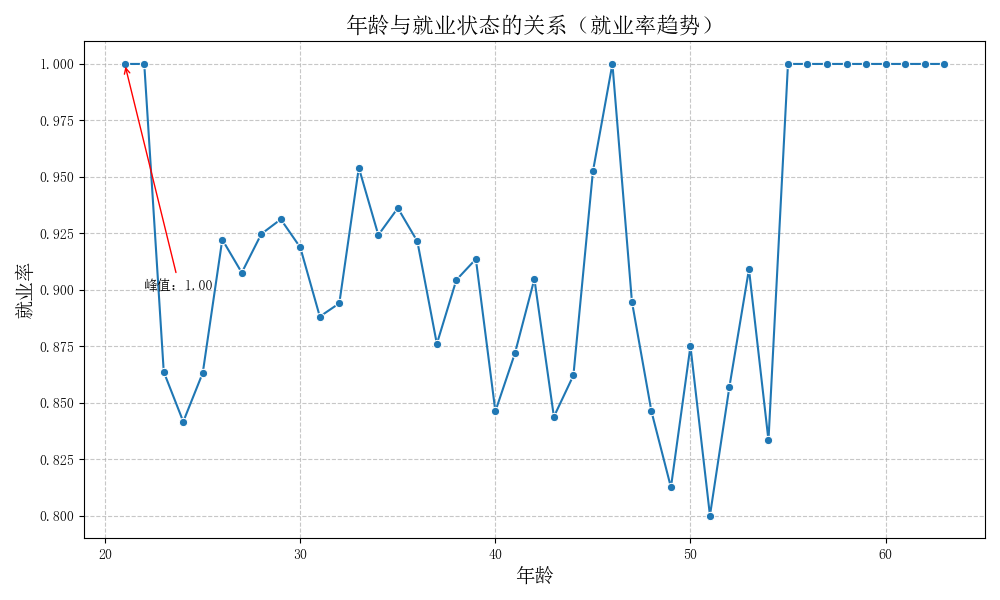
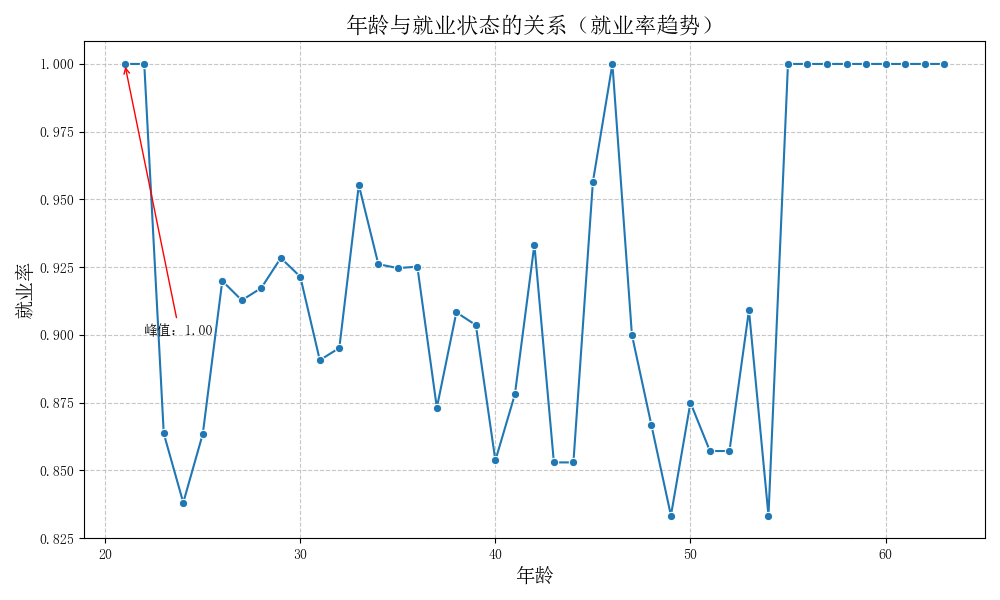
文件结构变动

diff --git a/code/visualization_analysis.py b/code/visualization_analysis.py
@@ -17,11 +17,11 @@ else:
     print("❌ 字体未找到，请检查路径！")
 
 # ===== 数据读取与处理 =====
-df = pd.read_csv('../processed_data/df_result.csv')
+df = pd.read_csv('../processed_data/non_standardized_data.csv')
 
 # 性别映射
 sex_mapping = {0: '未知', 1: '男', 2: '女', 9: '未说明'}
-df['sex_性别'] = df['sex_性别'].map(sex_mapping).fillna('未知')
+df['sex'] = df['sex'].map(sex_mapping).fillna('未知')
 
 # 教育程度映射
 edu_mapping = {
@@ -38,7 +38,7 @@ edu_mapping = {
     91: '中等师范学校（幼儿师范学校）毕业', 92: '中等师范学校（幼儿师范学校）结业',
     93: '中等师范学校（幼儿师范学校）肄业', 99: '其他'
 }
-df['edu_level_教育程度'] = df['edu_level_教育程度'].map(edu_mapping).fillna('未知')
+df['edu_level'] = df['edu_level'].map(edu_mapping).fillna('未知')
 
 # 毕业年过滤
 min_grad_year = df['graduate_year'].min()
@@ -50,13 +50,13 @@ os.makedirs(output_dir, exist_ok=True)
 
 # 就业率数据准备
 employment_rate_by_grad_year = df_filtered.groupby('graduate_year')['label'].mean()
-employment_rate_by_age = df.groupby('age_年龄')['label'].mean()
+employment_rate_by_age = df.groupby('age')['label'].mean()
 
 # ===== 图表绘制 =====
 
 # 1. 性别与就业状态
 plt.figure(figsize=(10, 6))
-sns.countplot(data=df, x='sex_性别', hue='label', hue_order=[0, 1])
+sns.countplot(data=df, x='sex', hue='label', hue_order=[0, 1])
 plt.title('性别与就业状态的关系', fontsize=16)
 plt.xlabel('性别', fontsize=14)
 plt.ylabel('人数', fontsize=14)
@@ -68,7 +68,7 @@ plt.close()
 
 # 2. 教育程度与就业状态
 plt.figure(figsize=(12, 10))
-sns.countplot(data=df, y='edu_level_教育程度', hue='label', hue_order=[0, 1])
+sns.countplot(data=df, y='edu_level', hue='label', hue_order=[0, 1])
 plt.title('教育程度与就业状态的关系', fontsize=20)
 plt.xlabel('人数', fontsize=14)
 plt.ylabel('教育程度', fontsize=14)
@@ -109,7 +109,7 @@ plt.close()
 
 # 5. 年龄与就业状态箱线图
 plt.figure(figsize=(8, 6))
-sns.boxplot(data=df, x='label', y='age_年龄', hue='label', palette='coolwarm')
+sns.boxplot(data=df, x='label', y='age', hue='label', palette='coolwarm')
 plt.title('年龄与就业状态的箱线图', fontsize=16)
 plt.xlabel('就业状态', fontsize=14)
 plt.ylabel('年龄', fontsize=14)
@@ -120,13 +120,15 @@ plt.savefig(os.path.join(output_dir, 'age_vs_employment_boxplot.png'))
 plt.close()
 
 # 6. 性别与就业状态饼图
-sex_label_counts = df.groupby(['sex_性别', 'label']).size().unstack().fillna(0)
+sex_label_counts = df.groupby(['sex', 'label']).size().unstack().fillna(0)
 fig, axes = plt.subplots(1, 2, figsize=(12, 6))
-labels = ['无业', '已就业']
+labels_dict = {0: '无业', 1: '已就业'}
+
 for i, col in enumerate(sex_label_counts.columns):
     axes[i].pie(sex_label_counts[col], labels=sex_label_counts.index,
                 autopct='%1.1f%%', startangle=140, textprops={'fontsize': 10})
-    axes[i].set_title(f'就业状态：{labels[col]}', fontsize=14)
+    axes[i].set_title(f'就业状态：{labels_dict.get(int(col), str(col))}', fontsize=14)
+
 plt.suptitle('性别与就业状态的分布（饼图）', fontsize=16)
 plt.tight_layout()
 plt.savefig(os.path.join(output_dir, 'sex_vs_employment_pie.png'))
@@ -134,7 +136,7 @@ plt.close()
 
 # 7. 多变量散点图（PairPlot）
 sns.pairplot(df, hue='label',
-             vars=['age_年龄', 'years_since_grad', 'reg_address_encoded', 'main_profession_encoded'],
+             vars=['age', 'years_since_grad', 'reg_address_encoded'],
              hue_order=[0, 1], palette='Set1', diag_kind='kde',
              plot_kws={'alpha': 0.6, 's': 50})
 plt.suptitle('变量与就业状态的关系（PairPlot）', fontsize=16, y=1.02)

diff --git a/code/shap_analysis.py b/code/shap_analysis.py
@@ -26,11 +26,11 @@ data['是否在职'] = data['label']
 
 # 精选特征（已标准化处理）
 features = [
-    'age_年龄', 'years_since_grad', 'sex_性别_enc',
-    'edu_level_教育程度_enc', 'marriage_婚姻状态_enc',
-    'politic_政治面貌_enc', 'is_disability_是否残疾人_enc',
-    'is_elder_是否老年人_enc', 'is_teen_是否青少年_enc',
-    'is_living_alone_是否独居_enc'
+    'age', 'years_since_grad', 'sex_enc',
+    'edu_level_enc', 'marriage_enc',
+    'politic_enc', 'is_disability_enc',
+    'is_elder_enc', 'is_teen_enc',
+    'is_living_alone_enc'
 ]
 
 X = data[features]
@@ -49,16 +49,16 @@ shap_values = explainer(X_train)
 
 # 中文别名映射
 rename_dict = {
-    'age_年龄': '年龄',
-    'years_since_grad': '毕业年距今',
-    'sex_性别_enc': '性别',
-    'edu_level_教育程度_enc': '教育程度',
-    'marriage_婚姻状态_enc': '婚姻状态',
-    'politic_政治面貌_enc': '政治面貌',
-    'is_disability_是否残疾人_enc': '是否残疾人',
-    'is_elder_是否老年人_enc': '是否老年人',
-    'is_teen_是否青少年_enc': '是否青少年',
-    'is_living_alone_是否独居_enc': '是否独居'
+    'age': '年龄',
+    'years_since_grad': '毕业年至今',
+    'sex_enc': '性别',
+    'edu_level': '教育程度',
+    'marriage_enc': '婚姻状态',
+    'politic_enc': '政治面貌',
+    'is_disability_enc': '是否残疾人',
+    'is_elder_enc': '是否老年人',
+    'is_teen_enc': '是否青少年',
+    'is_living_alone_enc': '是否独居'
 }
 readable_features = [rename_dict.get(f, f) for f in features]
 

diff --git a/processed_data/reports/analysis_report.md b/processed_data/reports/analysis_report.md
@@ -1,13 +1,13 @@
 
 # 数据特征分析报告
-**生成时间**：2025-04-19 04:01:05
+**生成时间**：2025-04-19 10:23:08
 
 ## 1. 目标变量分布
 
 |   就业状态 |   数量 |
 |-----------:|-------:|
-|          1 |   3983 |
-|          0 |    393 |
+|          1 |   4253 |
+|          0 |    420 |
 
 ## 2. 特征共线性分析（VIF）
 
@@ -15,28 +15,25 @@
 |:------------------------------------------------|----------:|:-------------|
 | <span style='color:red'>graduate_year</span>    | inf       | nan          |
 | <span style='color:red'>years_since_grad</span> | inf       | nan          |
-| <span style='color:red'>birth_year</span>       | 507.423   | 严重共线性   |
-| <span style='color:red'>age_年龄</span>         | 502.127   | 严重共线性   |
-| <span style='color:red'>const</span>            | 173.576   | 严重共线性   |
-| birth_month                                     |   1.5265  | 无共线性     |
-| major_code_encoded                              |   1.34212 | 无共线性     |
-| marriage_婚姻状态_enc                           |   1.32836 | 无共线性     |
-| major_name_encoded                              |   1.32638 | 无共线性     |
-| is_disability_是否残疾人_enc                    |   1.13802 | 无共线性     |
-| is_living_alone_是否独居_enc                    |   1.13573 | 无共线性     |
-| edu_level_教育程度_enc                          |   1.06562 | 无共线性     |
-| is_elder_是否老年人_enc                         |   1.05483 | 无共线性     |
-| sex_性别_enc                                    |   1.04797 | 无共线性     |
-| military_status_兵役状态_enc                    |   1.04453 | 无共线性     |
-| religion_宗教信仰_enc                           |   1.03965 | 无共线性     |
-| nation_民族_enc                                 |   1.03086 | 无共线性     |
-| main_profession_encoded                         |   1.02772 | 无共线性     |
-| reg_address_encoded                             |   1.02265 | 无共线性     |
-| school_encoded                                  |   1.02017 | 无共线性     |
-| politic_政治面貌_enc                            |   1.01846 | 无共线性     |
-| type_人口类型_enc                               |   1.00841 | 无共线性     |
-| is_teen_是否青少年_enc                          | nan       | nan          |
-| change_type_变动类型_enc                        | nan       | nan          |
+| <span style='color:red'>birth_year</span>       | 510.261   | 严重共线性   |
+| <span style='color:red'>age</span>              | 486.956   | 严重共线性   |
+| birth_month                                     |   1.52326 | 无共线性     |
+| const                                           |   1.36164 | 无共线性     |
+| marriage_enc                                    |   1.32629 | 无共线性     |
+| is_disability_enc                               |   1.12845 | 无共线性     |
+| is_living_alone_enc                             |   1.12677 | 无共线性     |
+| edu_level_enc                                   |   1.06552 | 无共线性     |
+| is_elder_enc                                    |   1.05749 | 无共线性     |
+| military_status_enc                             |   1.04208 | 无共线性     |
+| sex_enc                                         |   1.04198 | 无共线性     |
+| religion_enc                                    |   1.03529 | 无共线性     |
+| reg_address_encoded                             |   1.02038 | 无共线性     |
+| school_encoded                                  |   1.01761 | 无共线性     |
+| politic_enc                                     |   1.01644 | 无共线性     |
+| nation_enc                                      |   1.01582 | 无共线性     |
+| type_enc                                        |   1.00664 | 无共线性     |
+| is_teen_enc                                     | nan       | nan          |
+| change_type_enc                                 | nan       | nan          |
 
 **共线性说明**：
 - 严重共线性（VIF>50）：红色标记特征
@@ -49,11 +46,11 @@
 ## 4. 分析建议
 
 ### 数据质量问题
-- 检测到 5 个高共线性特征（VIF>10）
+- 检测到 4 个高共线性特征（VIF>10）
 
 ### 特征工程建议
 1. **共线性处理**：
-   - 删除特征：`<span style='color:red'>graduate_year</span>, <span style='color:red'>years_since_grad</span>, <span style='color:red'>birth_year</span>, <span style='color:red'>age_年龄</span>, <span style='color:red'>const</span>`
+   - 删除特征：`<span style='color:red'>graduate_year</span>, <span style='color:red'>years_since_grad</span>, <span style='color:red'>birth_year</span>, <span style='color:red'>age</span>`
    - 使用PCA降维（保留85%方差）
 2. **特征优化**：
    - 离散化处理：`birth_month` 转换为季度特征
